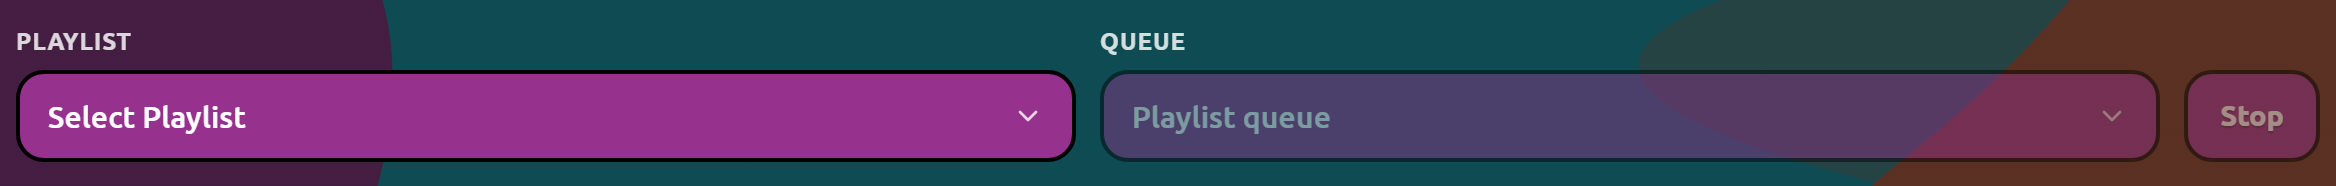
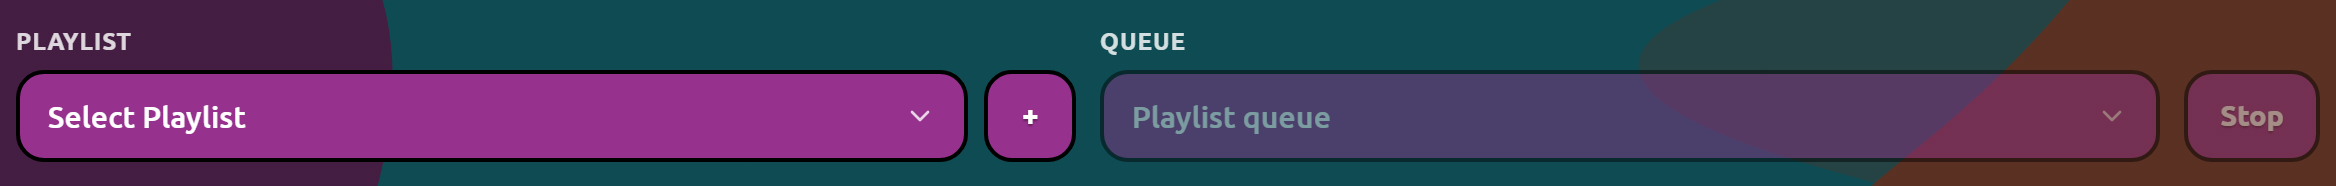
Tutorials Phase 2: Playalongs completeness — tab-bar card, dock scrubber, accurate title-nav (+ shot), named playlist controls

Changed region(s): [[0.375, 0.3763, 0.4688, 0.8871]]

diff --git a/404.html b/404.html
@@ -95,7 +95,7 @@
         #boot.is-leaving img { transform: none; }
       }
     </style>
-    <script type="module" crossorigin src="/assets/index-CkA49ruB.js"></script>
+    <script type="module" crossorigin src="/assets/index-D0oGT0O7.js"></script>
     <link rel="stylesheet" crossorigin href="/assets/index-DFKa3R03.css">
   </head>
   <body>

diff --git a/index.html b/index.html
@@ -95,7 +95,7 @@
         #boot.is-leaving img { transform: none; }
       }
     </style>
-    <script type="module" crossorigin src="/assets/index-CkA49ruB.js"></script>
+    <script type="module" crossorigin src="/assets/index-D0oGT0O7.js"></script>
     <link rel="stylesheet" crossorigin href="/assets/index-DFKa3R03.css">
   </head>
   <body>